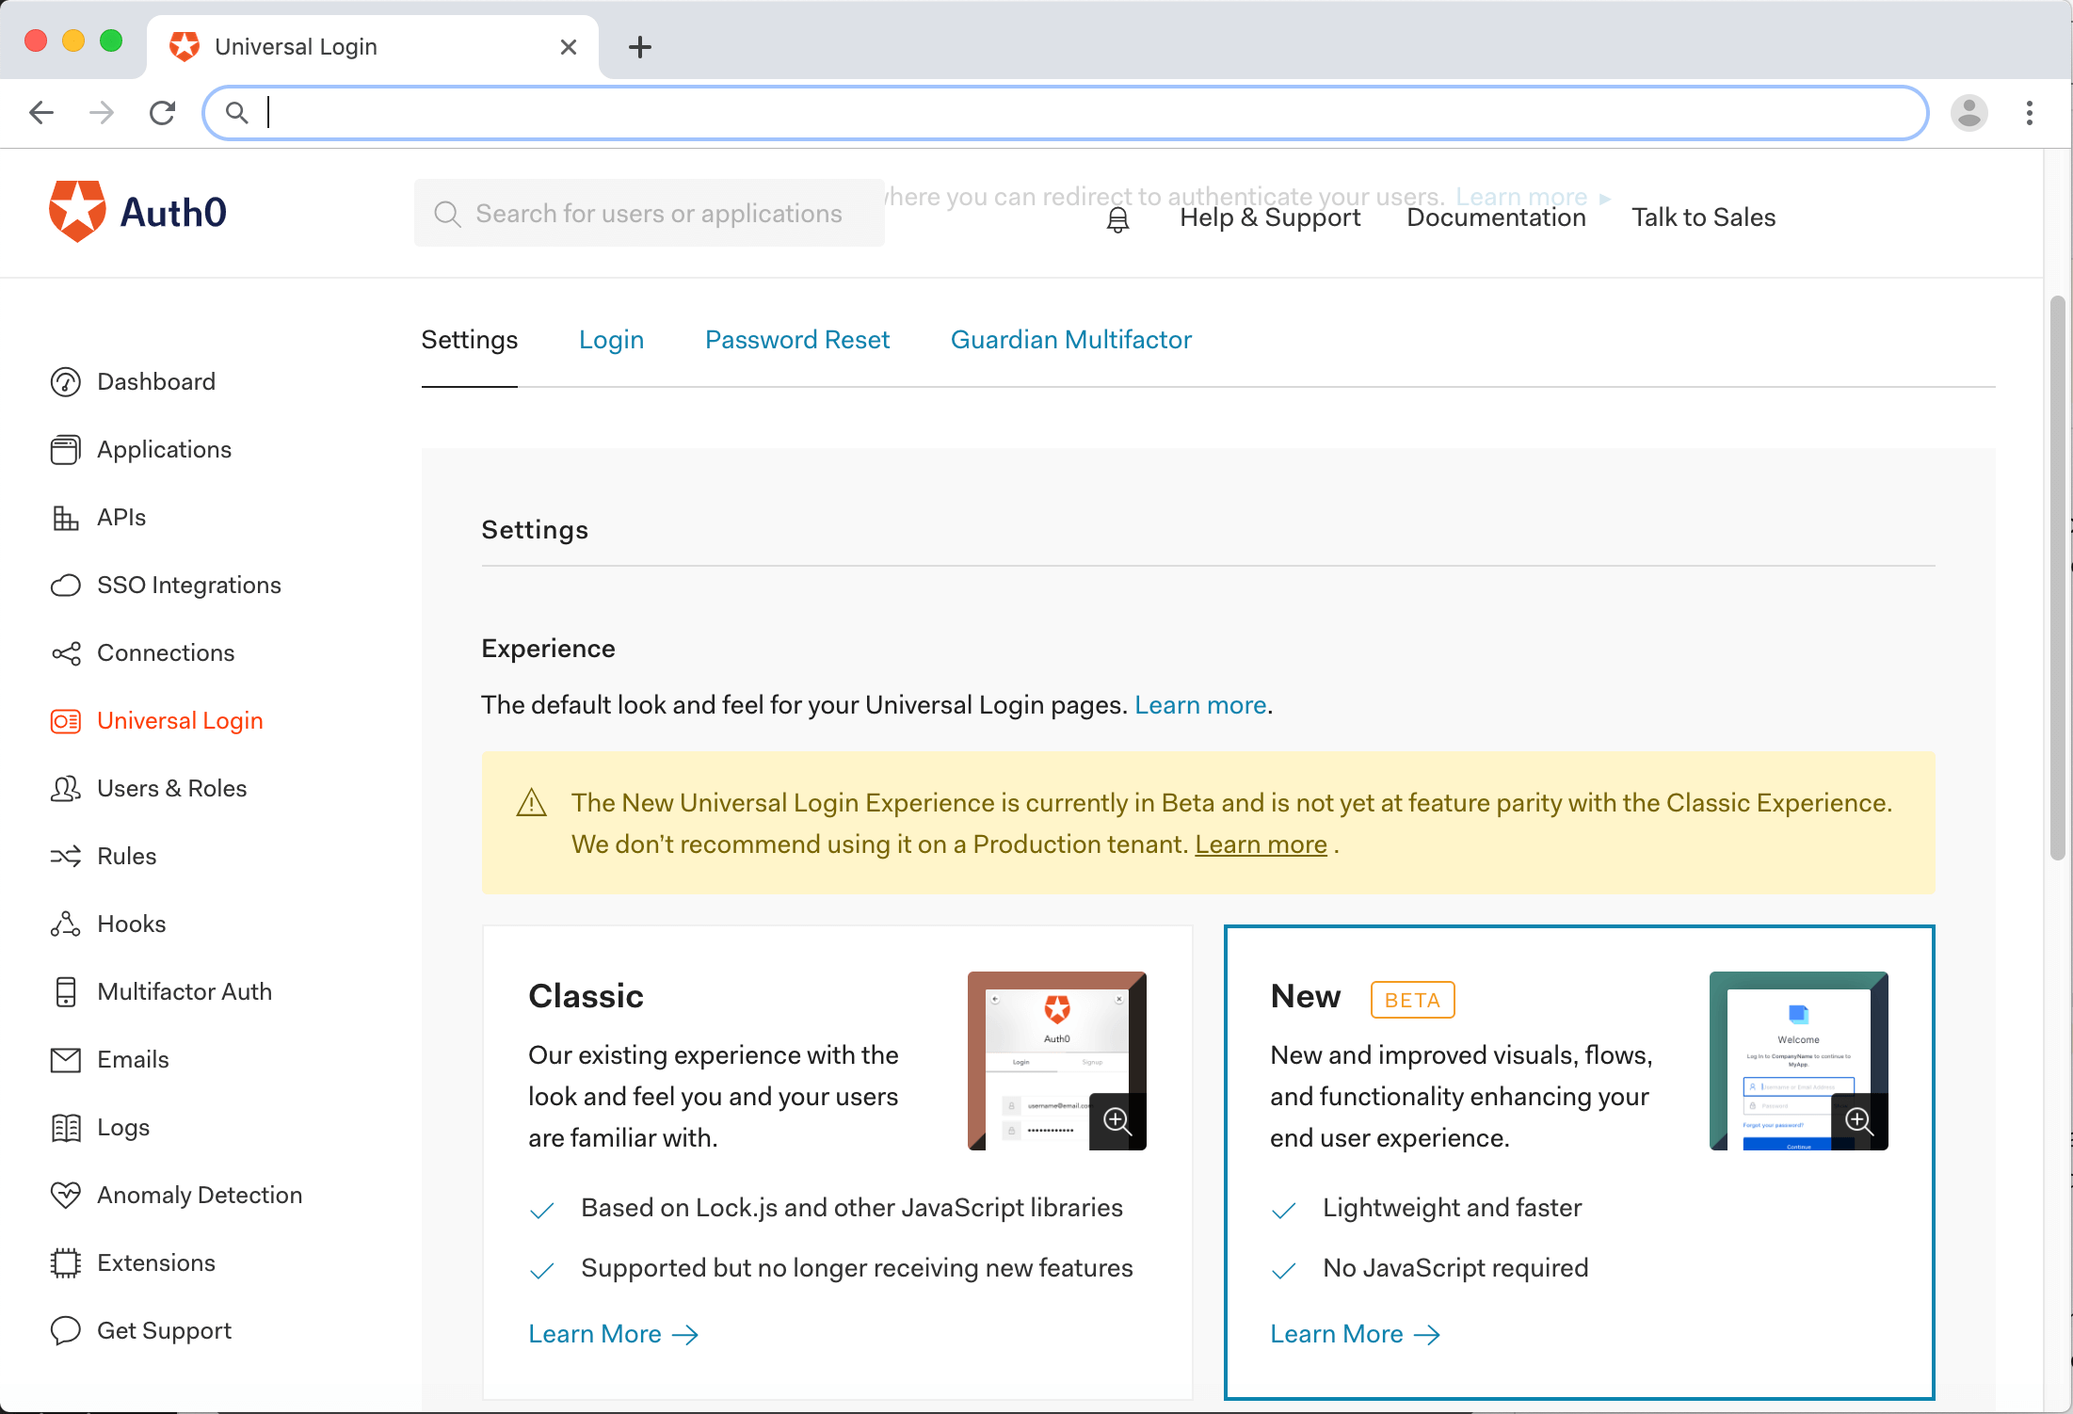
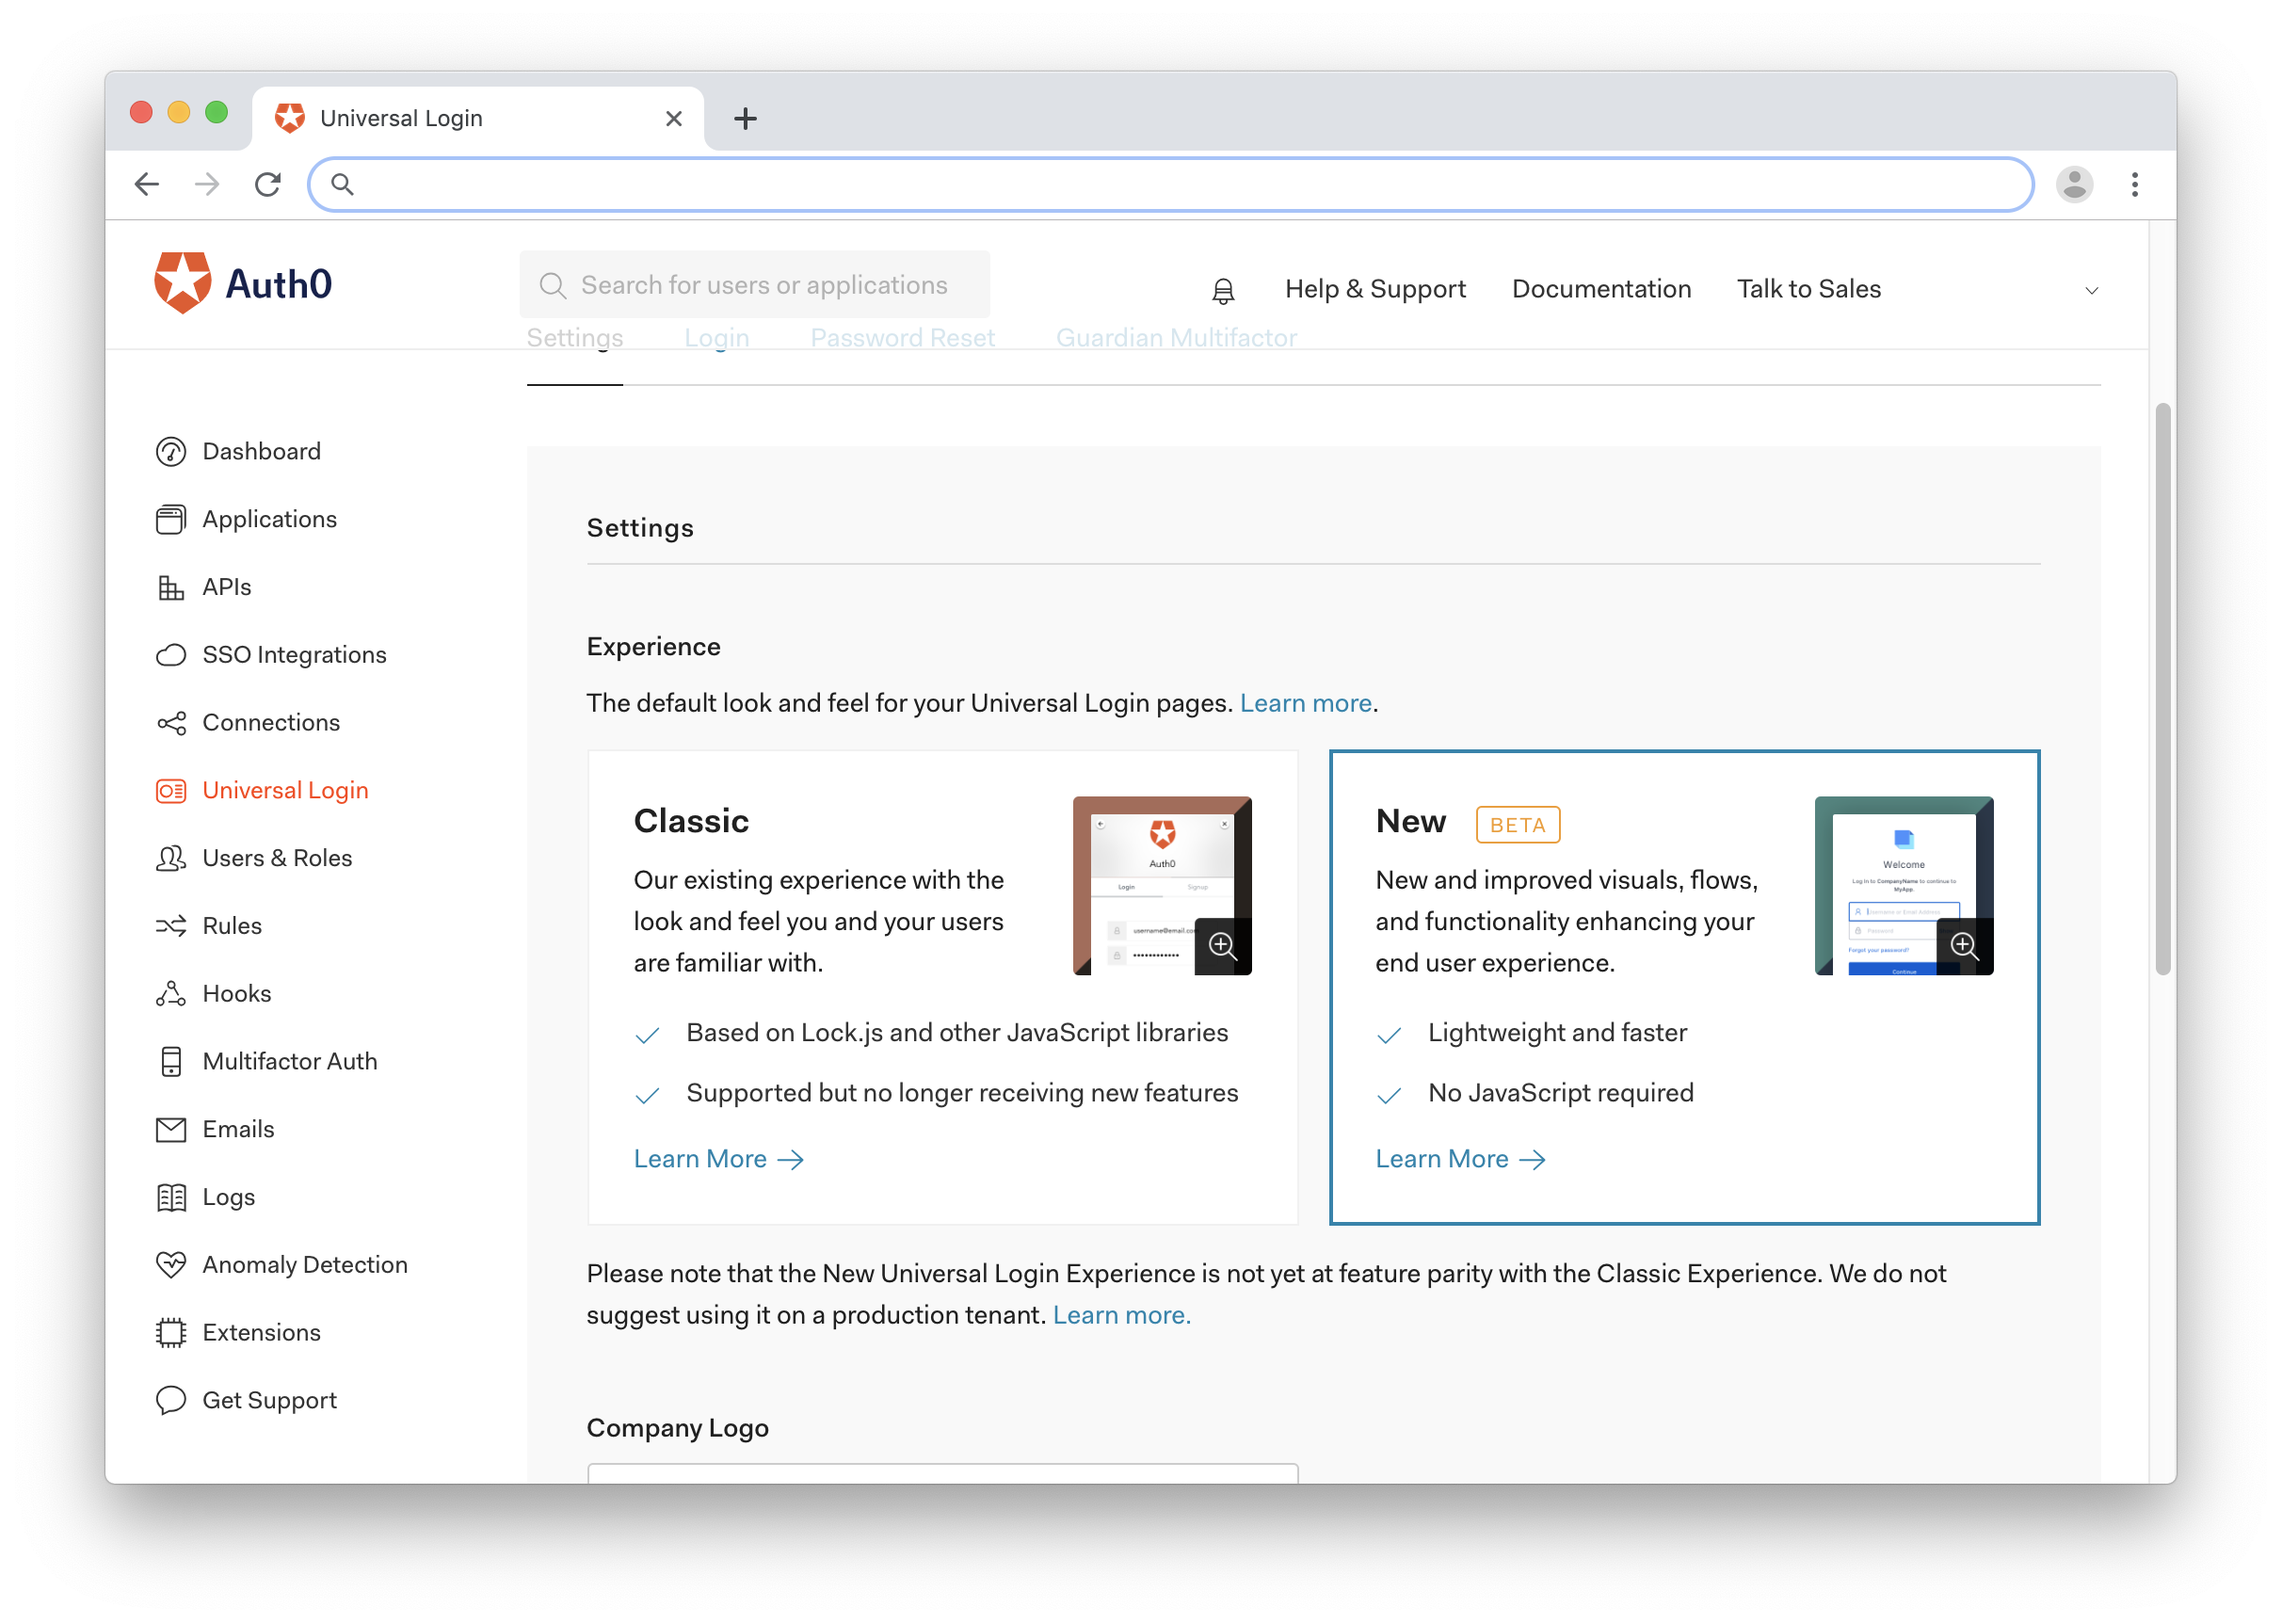
Added community link Replaced experience picker image Reordered Index page

diff --git a/articles/universal-login/index.md b/articles/universal-login/index.md
@@ -22,13 +22,21 @@ The login page appearance and behavior is customizable right from the [Dashboard
 
 For information on the differences between Universal Login and traditional embedded login within your application, see [our comparison guide](/guides/login/universal-vs-embedded).
 
-## Implementing Universal Login
+## Choosing an experience
 
-In addition to configuring Universal Login for your tenant's applications, you will also need to set up a connection(s) and set up your application in Auth0's dashboard. You will also need to configure your application's code to call Auth0's `/authorize` endpoint in order to trigger Universal Login, and then to deal with the response.
+There are two available experiences in Universal Login. The Classic Universal Login experience uses JavaScript controls for each page. The New Universal Login experience does not _require_ JavaScript to work, and it offers a simpler and faster experience for end-users. 
 
-For step by step instructions on setting up your application to use Universal Login, check out our [Quickstart guides](/quickstarts).
+In the Dashboard, the dialog shown below lets you select which Experience will be used for default, non-customized pages:
 
-### Simple Customization
+![Login Page](/media/articles/universal-login/experience-picker.png)
+
+Choose an experience to learn more about:
+
+* [Classic Universal Login experience](/universal-login/classic) 
+* [New Universal Login experience](/universal-login/new) (and its [current limitations](/universal-login/new-experience-limitations))
+
+
+## Simple Customization
 
 ![Customization Settings for Login Page](/media/articles/universal-login/settings.png)
 
@@ -42,15 +50,8 @@ The settings available here are:
 
 These settings, once changed, will take effect on all your Universal Login pages if you have not enabled customization of the pages' code. The settings will also work if you have enabled customization but are using the predefined templates and have not changed those options in the code.
 
-## Choosing an experience
+## Implementing Universal Login
 
-There are two available experiences in Universal Login. The Classic Universal Login experience uses JavaScript controls for each page. The New Universal Login experience does not _require_ JavaScript to work, and it offers a simpler and faster experience for end-users. 
+In addition to configuring Universal Login for your tenant's applications, you will also need to set up a connection(s) and set up your application in Auth0's dashboard. You will also need to configure your application's code to call Auth0's `/authorize` endpoint in order to trigger Universal Login, and then to deal with the response.
 
-In the Dashboard, the dialog shown below lets you select which Experience will be used for default, non-customized pages:
-
-![Login Page](/media/articles/universal-login/experience-picker.png)
-
-Choose an experience to learn more about:
-
-* [Classic Universal Login experience](/universal-login/classic) 
-* [New Universal Login experience](/universal-login/new) (and its [current limitations](/universal-login/new-experience-limitations))
+For step by step instructions on setting up your application to use Universal Login, check out our [Quickstart guides](/quickstarts).

diff --git a/articles/universal-login/new.md b/articles/universal-login/new.md
@@ -11,14 +11,13 @@ toc: true
 
 Auth0's New [Universal Login](/universal-login) experience provides a reimagined login flow, with a fresh UX design and lightweight pages. When you pick this new experience, Auth0 will use it for all pages that haven't been customized.
 
-The key structural difference with the [Classic Experience](/universal-login/classic) is that while the former uses Javascript widgets in all the pages, the New Experience is rendered on the server and does not require Javascript. 
+The key structural difference with the [Classic Experience](/universal-login/classic) is that while the former uses Javascript widgets in all the pages, the New Experience is rendered on the server and does not require Javascript. From a functional perspective, there's is a still a [feature gap](/universal-login/new-experience-limitations) between the New and Classic experience. 
 
-From a functional perspective, there's is a still a [feature gap](/universal-login/new-experience-limitations) between the New and Classic experience. 
+During the Beta period, we'll respond to customer feedback [in a dedicated section](https://community.auth0.com/t/new-universal-login-experience-beta/23979) of our Community Site.
 
 In addition of some missing features, in the New Experience some pages has certain differences detailed below.
 
 ## Login
-
 - If you are using Development Keys for Social Providers:
 
     - Single Sign On and Silent Authentication will work properly, which does not happen in the Classic experience.
@@ -30,17 +29,11 @@ In addition of some missing features, in the New Experience some pages has certa
 - A 'show password' icon will be displayed next to the password field.
 
 - If you redirect users to the `/login` page directly, they will get a error unless they have configured the [default login route](/universal-login/default-login-url). You should always redirect users to `/authorize`.
-
 ## Multi-Factor Authentication
-
 - If users have more than one MFA factor enrolled (e.g. SMS and Push notifications), the new MFA page will let the user select which one they want to use.
-
 ## Password Reset
-
 - In the Classic Experience you can [configure a url](/email/templates#redirect-to-results-for-the-change-password-email-template) to redirect users after completing the password reset. The URL will receive a success indicator and a message. The New Experience will redirect the users to the [default login route](/universal-login/default-login-url) when it succeeds, and will handle the error cases as part of the Universal Login flow. The Redirect URL in the email template will be ignored.  
 
 - A 'show password' icon will be displayed next to the password fields.
-
 ## Consent
-
 - The logo / color selected in the dashboard configuration section will be properly applied.
